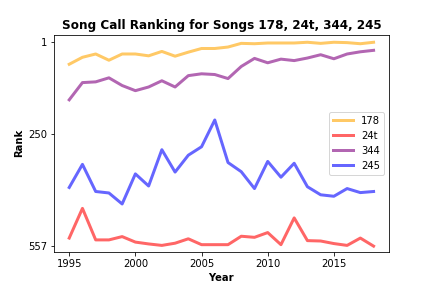
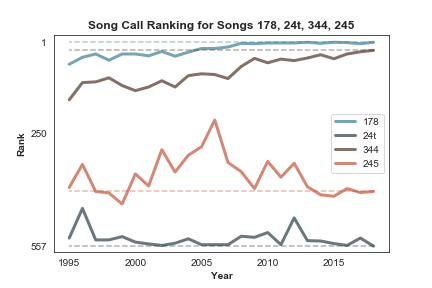
Playing with colors

diff --git a/analysis.py b/analysis.py
@@ -10,6 +10,7 @@ import subprocess as sp
 import matplotlib.pyplot as plt
 from ast import literal_eval
 
+sns.set_style('white')
 
 #sns.palplot(sns.color_palette("GnBu_d"))
 cmap = sns.cubehelix_palette(light=1, as_cmap=True)
@@ -121,7 +122,7 @@ def plot_one_song(page, save=True):
 plot_one_song('344')
 
 
-def plot_some_songs(ps, save=True):
+def plot_songs_popularity(ps, save=True):
     """
     Plot the evolution and overall rank of a set of songs.
 
@@ -130,9 +131,14 @@ def plot_some_songs(ps, save=True):
     """
     plt.close()
 
-    colors = ['orange', 'red', 'purple', 'blue', 'green', 'yellow']
-    if len(ps) > len(colors):
-        return "Too many songs to plot"
+    # Give the user a little flexibility on input types.
+    if type(ps) == str or type(ps) == int:
+        ps = [str(ps)]
+
+    colors = sns.diverging_palette(220, 20, n=len(ps), center='dark')
+
+    if len(ps) > 7:
+        print "Plotting under protest: probably too many songs to look good."
 
     for p in range(len(ps)):
         page = ps[p]
@@ -141,15 +147,17 @@ def plot_some_songs(ps, save=True):
             return page_idx
 
         plt.plot(years, songs_df['ranks'][page_idx],
-                 linestyle='-', linewidth='3', alpha=0.6,
+                 linestyle='-', linewidth='3', alpha=0.7,
                  color=colors[p], label=page)
-
+        plt.plot(years, [songs_df['ranks'][page_idx][0]] * len(years),
+                 linestyle='--', color=colors[p], alpha=0.4)
 
     # plt.gca().invert_yaxis()
     plt.ylim(max(pages), -20)
     plt.ylabel('Rank', weight='bold')
     plt.xlabel('Year', weight='bold')
     plt.yticks([1, 250, max_rank])
+
     plt.title('Song Call Ranking for Songs ' + ', '.join(ps), weight='bold')
     plt.legend()
 
@@ -157,15 +165,22 @@ def plot_some_songs(ps, save=True):
         plt.savefig(dir_path + 'song-popularity_' + '-'.join(ps) + '.png')
     plt.show()
 
-plot_some_songs(ex_songs)
+plot_songs_popularity(ex_songs)
 
-# Kinda dumb, but make a gif of some songs evolutions.
+plot_songs_popularity(344)
+
+
+
+# Make a gif of some songs evolutions.
 ex_songs = ['178', '24t', '344', '245']
-def gif_evo(songs=ex_songs, show_plots=True):
+def gif_evo(songs=ex_songs, show_plots=True, dt=0.4):
     base_fname = 'songs-evo_' + '-'.join(songs)
     gif_outpath = dir_path + '/' + base_fname + '.gif'
 
     sp.call(['rm', '-f', '{}'.format(gif_outpath)])
+
+    # Set a color palette
+    sns.diverging_palette(220, 20, n=len(songs), center='dark')
 
     images = []
     for year in years[::-1]:
@@ -191,7 +206,7 @@ def gif_evo(songs=ex_songs, show_plots=True):
 
         images.append(imageio.imread(file_name))
 
-    imageio.mimsave(gif_outpath, images, duration=0.3)
+    imageio.mimsave(gif_outpath, images, duration=dt)
 
     for year in years:
         file_name = dir_path + base_fname + '_{}.png'.format(str(year))
